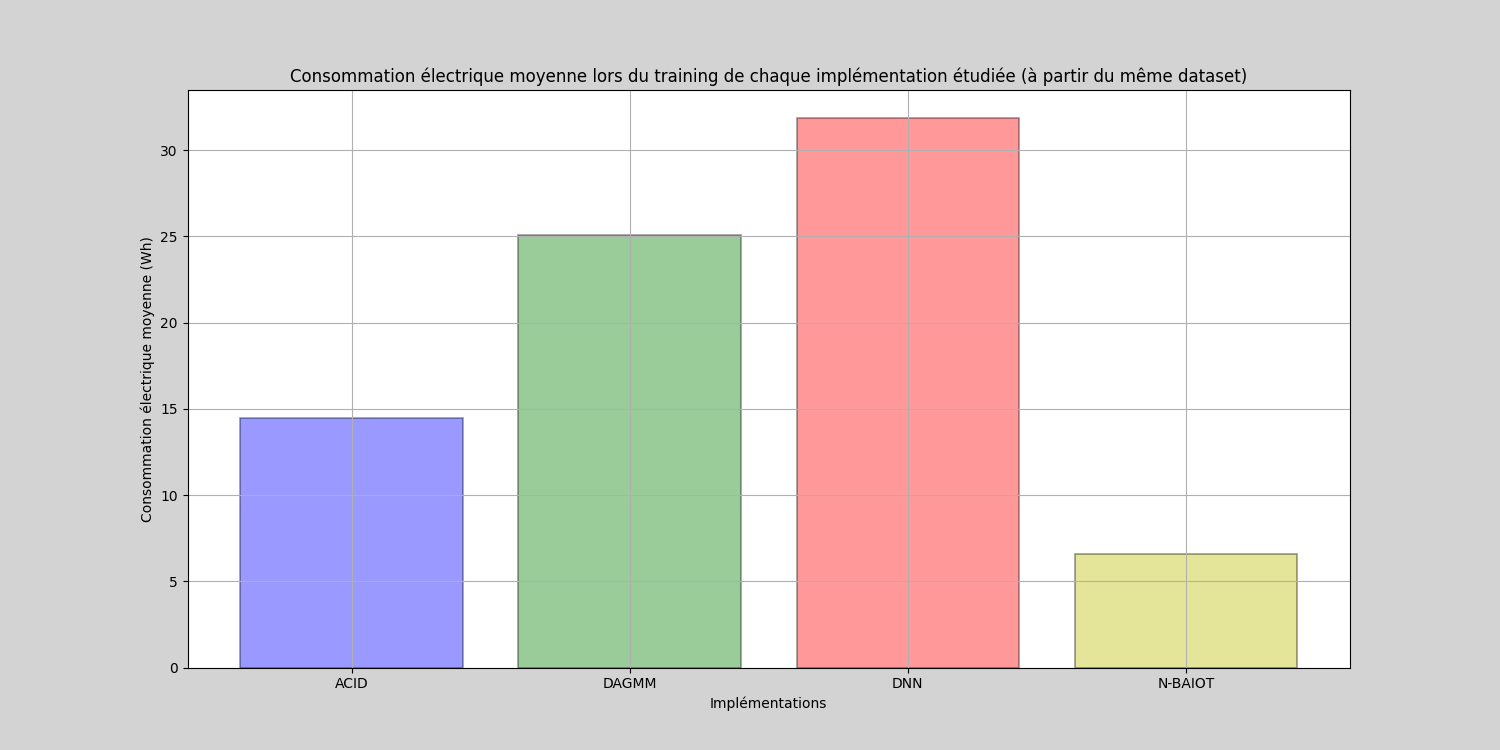
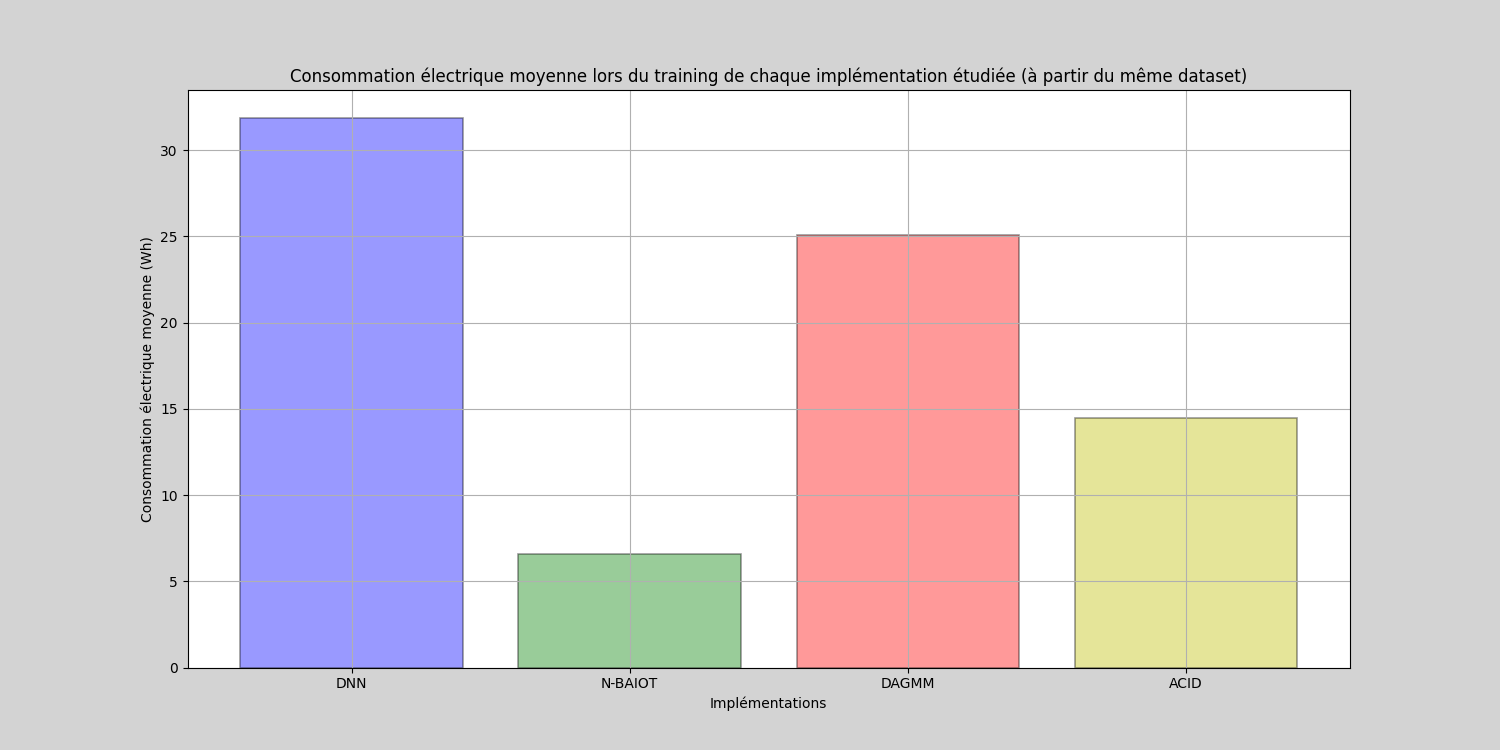
cc

diff --git a/GRAPHES_COMMUNS.py b/GRAPHES_COMMUNS.py
@@ -67,6 +67,7 @@ print("Remy",remy_std_loss[:1000])
 
 
 
+
 plt.figure(figsize=(15, 7.5),facecolor='lightgrey')
 # plt.errorbar(x[:1000], [(maxime_loss[i]) for i in range(len(maxime_loss[:1000]))], yerr=[((maxime_std_loss[i]*0.5)) if (i%70==0) else 0 for i in range(len(maxime_std_loss[:1000]))], label='ACID', color='blue',ecolor='lightblue')
 # plt.errorbar(x[:1000], [(louise_loss[i]) for i in range(len(louise_loss[:1000]))], yerr=[((louise_std_loss[i])) if (i%75==0) else 0 for i in range(len(louise_std_loss[:1000]))], label='DAGMM', color='green',ecolor='lightgreen')
@@ -104,8 +105,8 @@ remy_enviro = 6.60
 
 
 #GRAPHES ENVIRO
-x = ["ACID", "DAGMM", "DNN","N-BAIOT"]
-valeurs_histo = [maxime_enviro,louise_enviro,tanguy_enviro,remy_enviro]
+x = ["DNN", "N-BAIOT", "DAGMM","ACID"]
+valeurs_histo = [tanguy_enviro,remy_enviro,louise_enviro,maxime_enviro]
 
 
 
@@ -127,8 +128,8 @@ louise_precision = 0.6850
 tanguy_precision = 0.9996
 remy_precision = 0.6877
 #METTEZ VOTRE VALEUR DE PRECISION DANS UNE VARIABLE
-x = ["ACID", "DAGMM", "DNN","N-BAIOT"]
-valeurs_histo = [maxime_precision,louise_precision,tanguy_precision,remy_precision]
+x = ["DNN", "N-BAIOT", "DAGMM","ACID"]
+valeurs_histo = [tanguy_precision,remy_precision,louise_precision,maxime_precision]
 
 
 plt.figure(figsize=(15, 7.5),facecolor='lightgrey')
